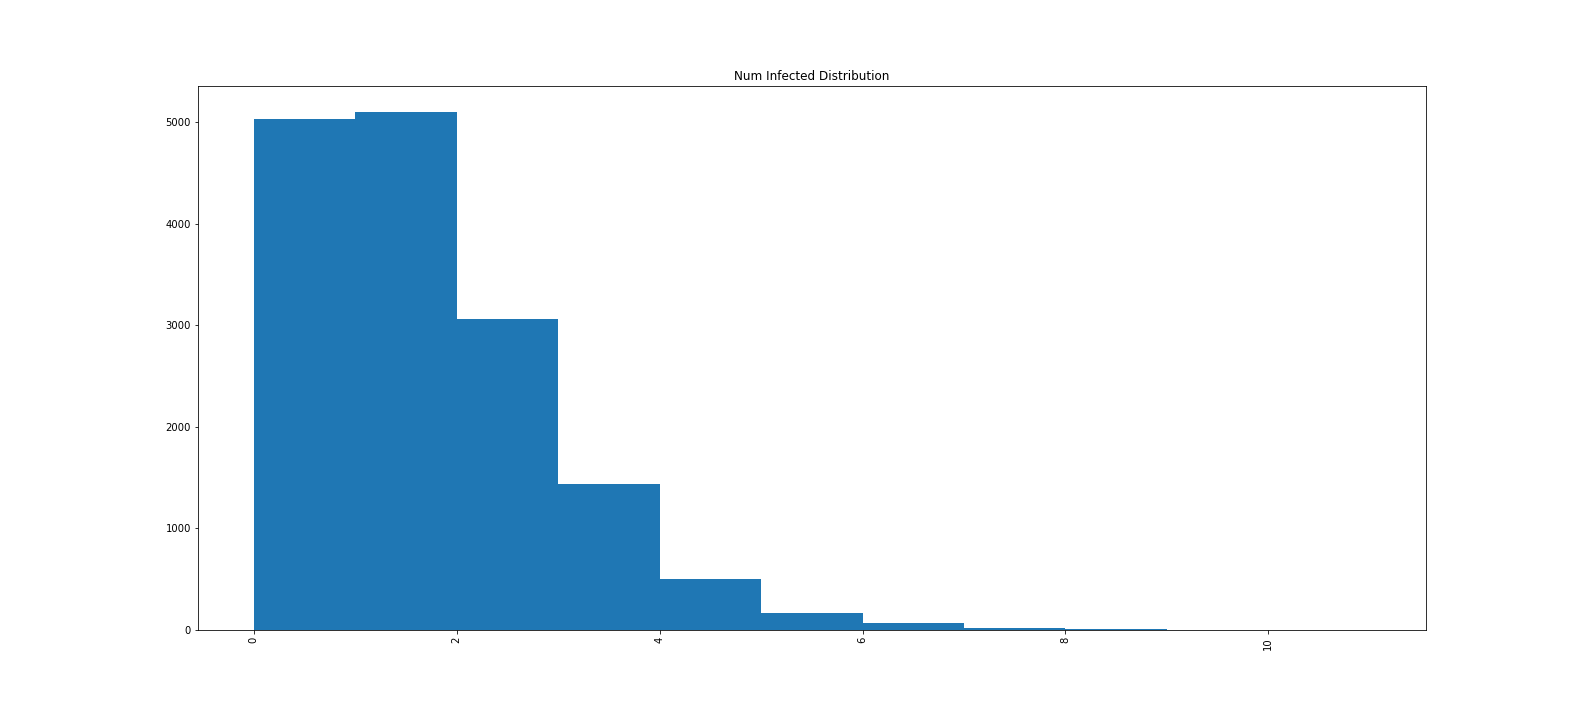
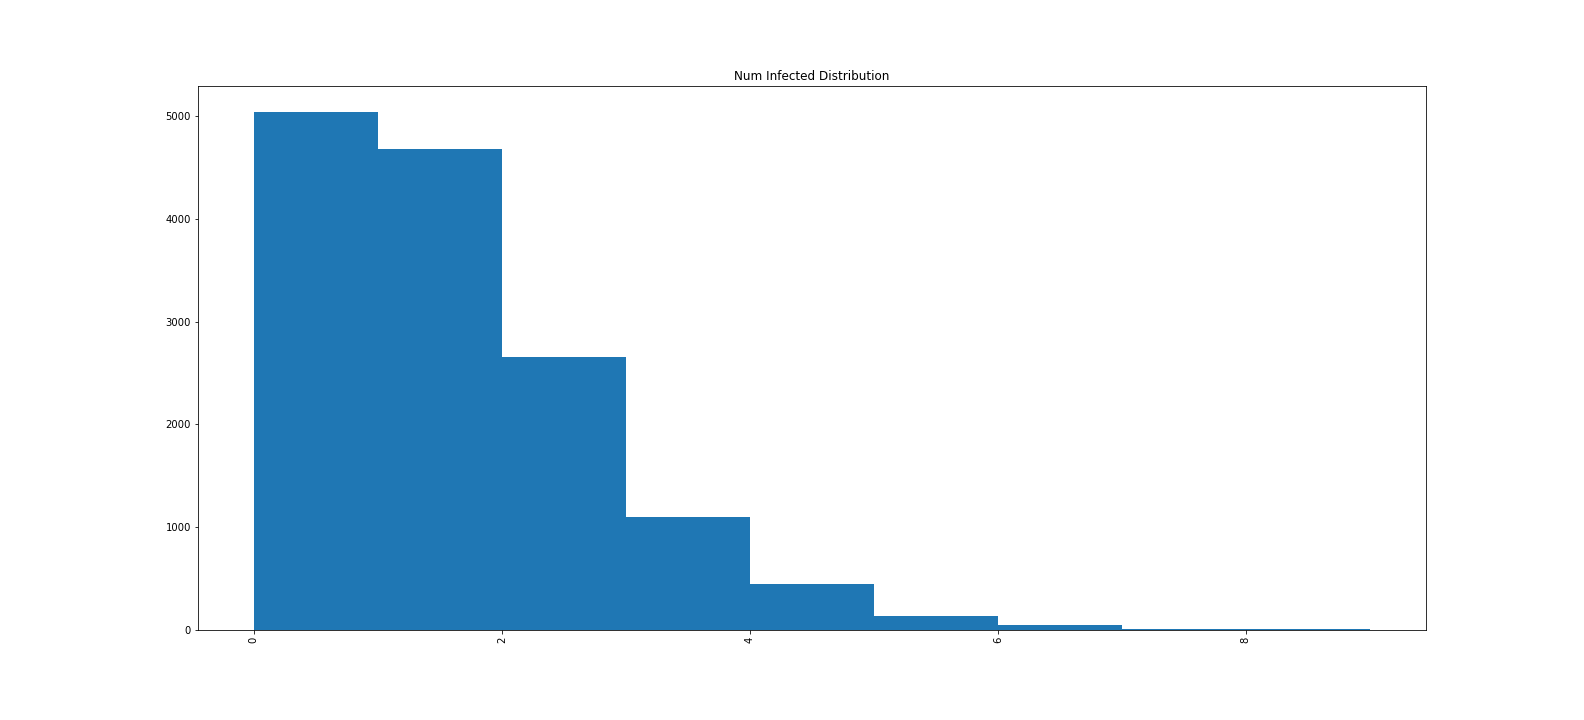
fixing poisson number generation

diff --git a/sim.py b/sim.py
@@ -31,10 +31,11 @@ def contactSim(city, recoveryTime, date, lambdaPoiss=5, probInfection=.05):
     contagiousList = city[(city['infected']==True) & (city['recovered']==False) & 
                         (city['quarantined']==False)].index.tolist()
 
-    contactRate = int(np.random.poisson(lambdaPoiss,1))
+    # contactRate = int(np.random.poisson(lambdaPoiss,1))
     suceptableList = city.index.tolist()
 
     for i in contagiousList:
+        contactRate = int(np.random.poisson(lambdaPoiss,1))
         suceptableList.remove(i)
         if (len(suceptableList) < contactRate):
             contactRate = len(suceptableList)
